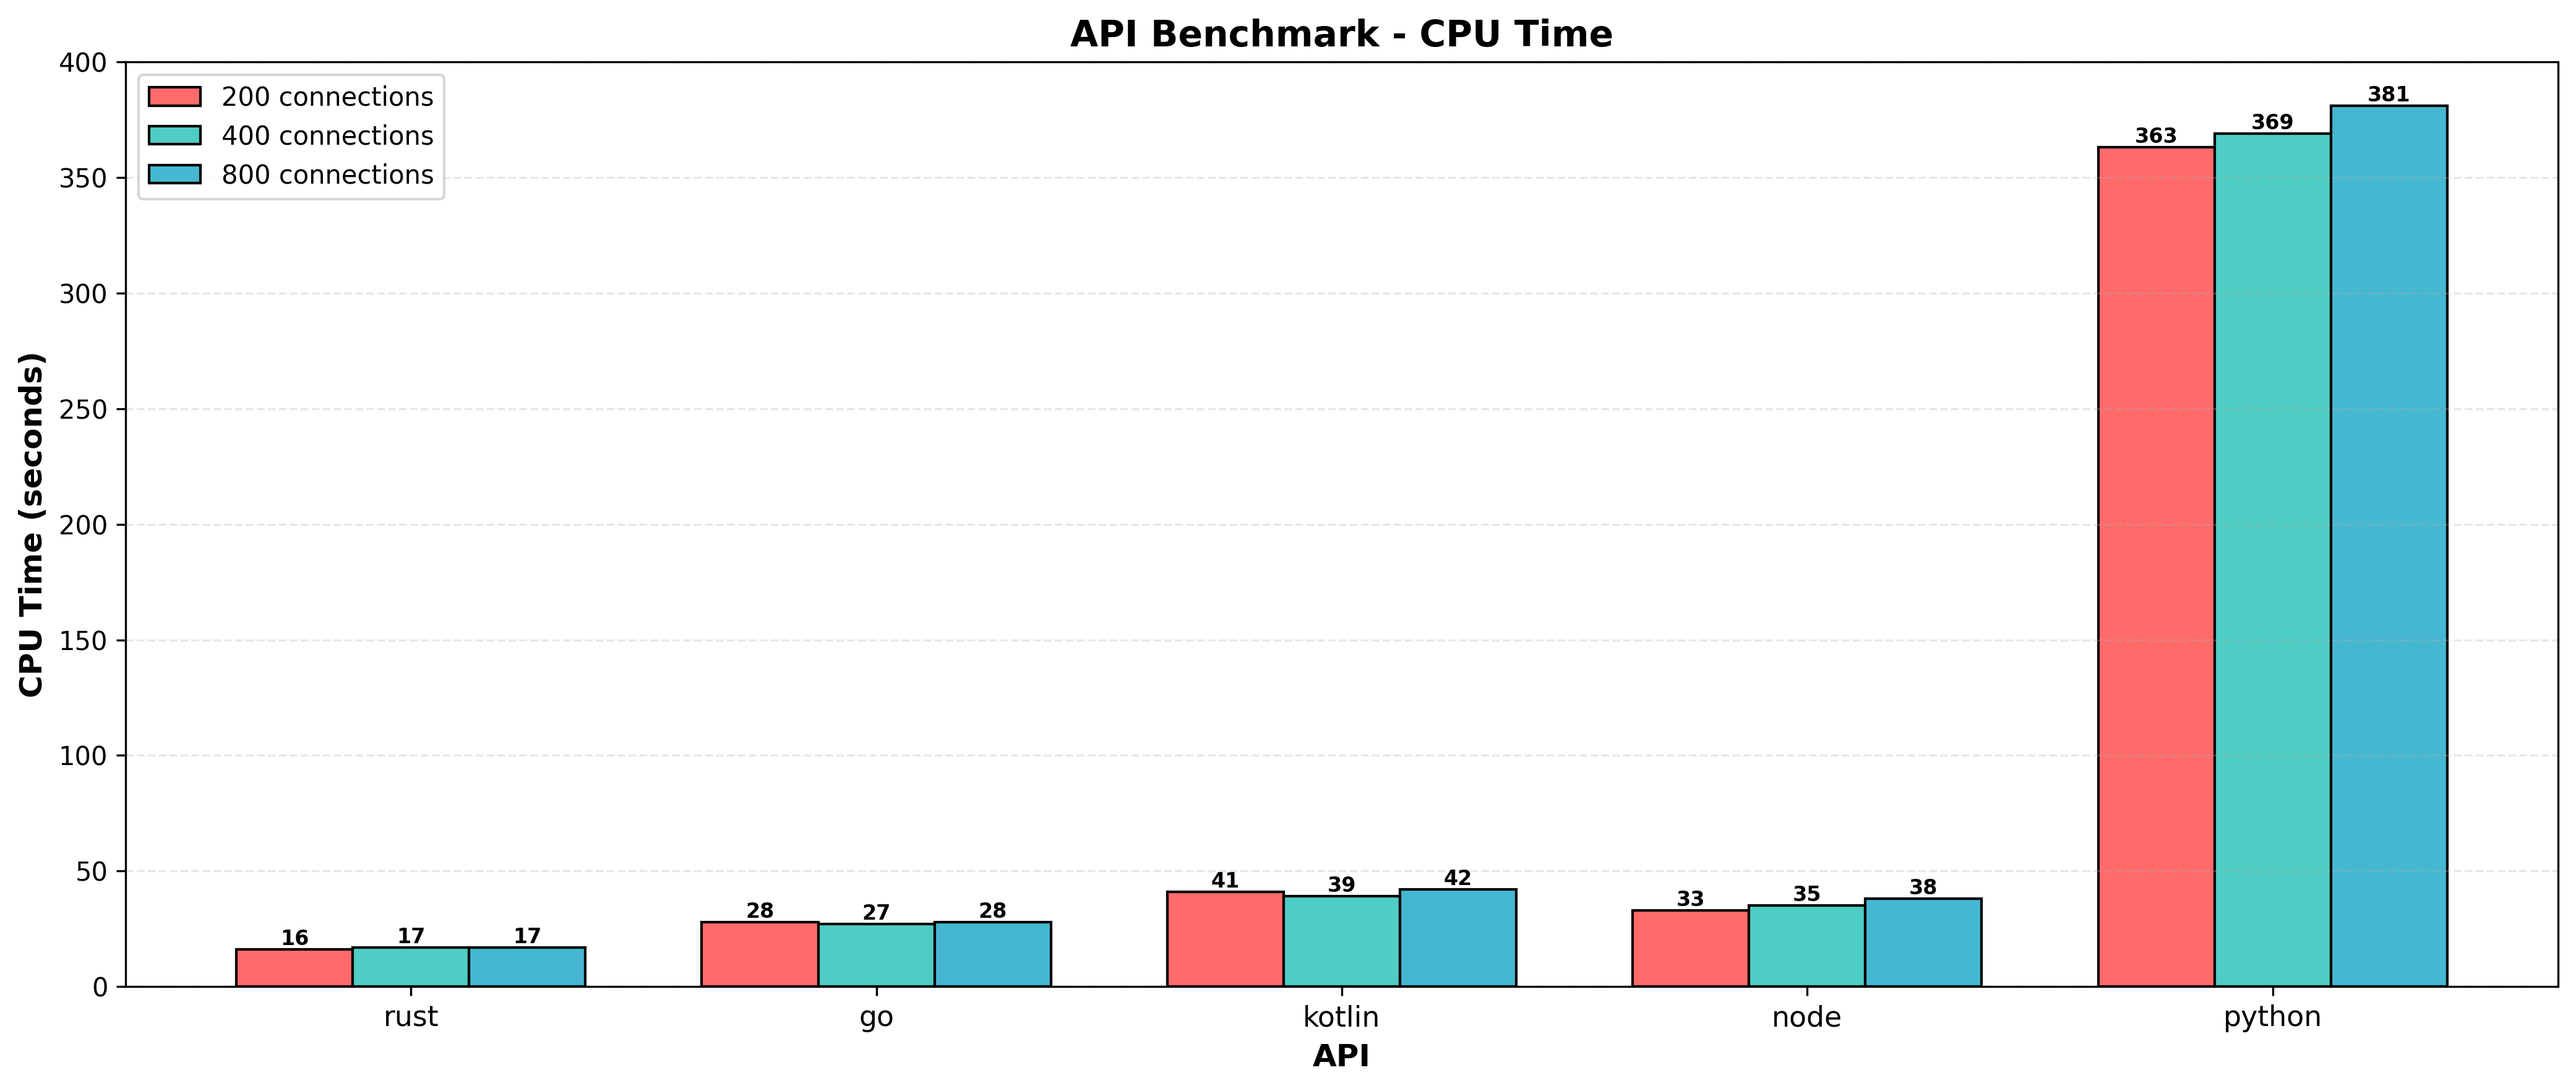
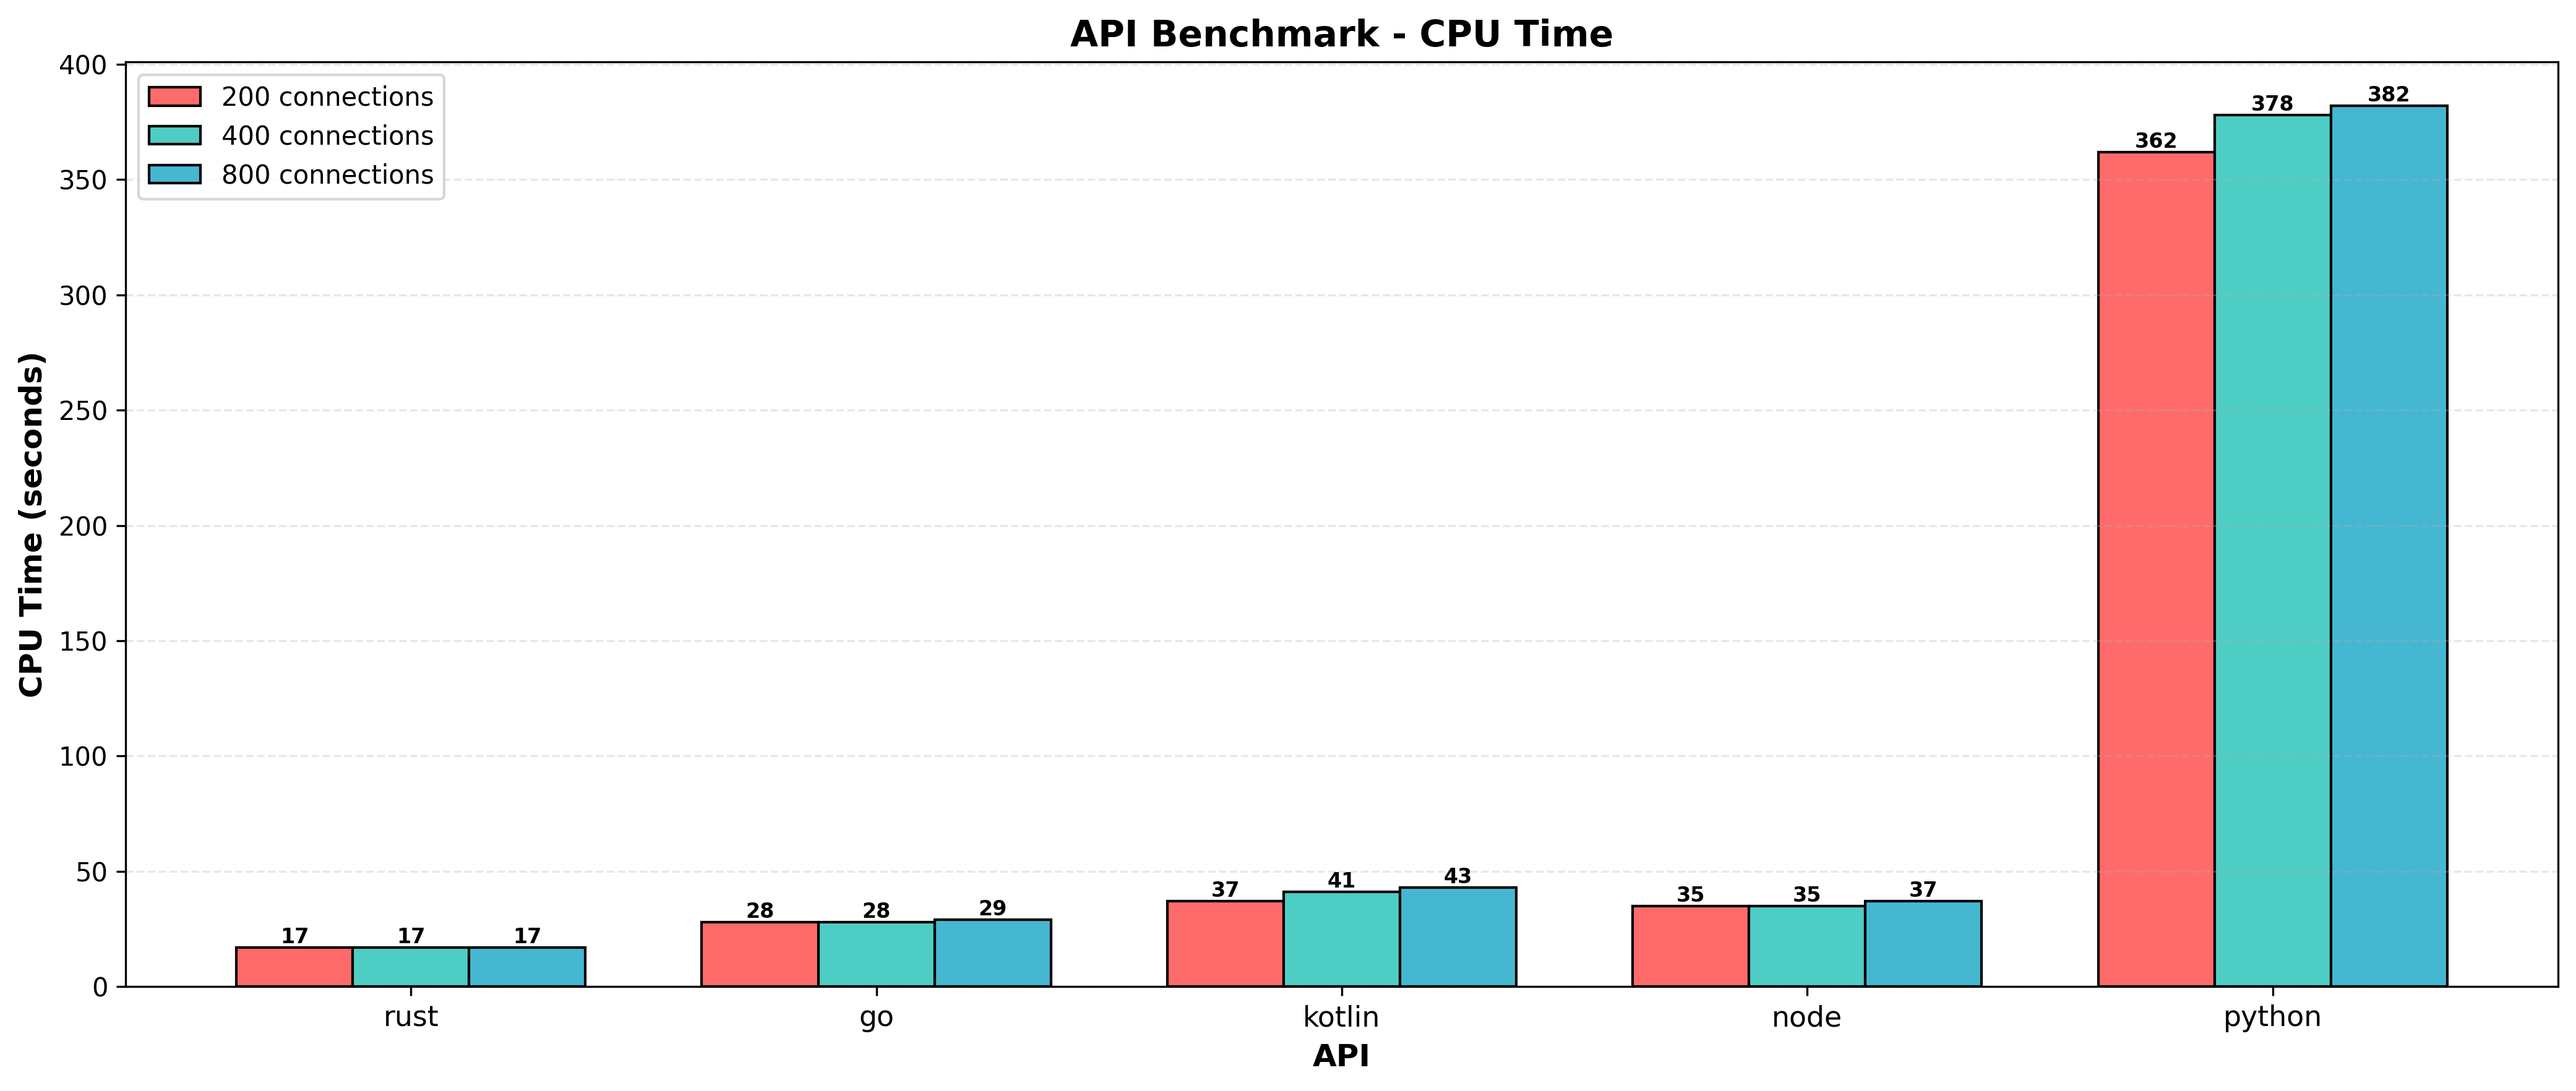
results from github actions autocommit

diff --git a/results/raw.md b/results/raw.md
@@ -1,6 +1,6 @@
 # Results
 ## Timestamp
-Mon Feb 2 11:11:29 UTC 2026
+Tue Feb 3 11:10:22 UTC 2026
 ## Hardware Info
 | CPU Model | Num CPUs | Memory |
 | --------- | -------- | ------ |
@@ -9,18 +9,18 @@ Mon Feb 2 11:11:29 UTC 2026
 ## Benchmarks of 1 Million Requests
 | Test Name | HTTP Conns | Success Rate | Test Seconds | Requests per Second | P50 Millis | P99 Millis | P99.9 Millis | API Memory MB | API CPU Time | API Threads | API Processes |
 | --------- | ---------- | ------------ | ------------ | ------------------- | ---------- | ---------- | ------------ | ------------- | ------------ | ----------- | ------------- |
-| rust | 200 | 100.0% | 8.8 | 113181.4 | 1.6181 | 4.5569 | 5.9086 | 8.4 | 00:00:16 | 5 | 1 |
-| rust | 400 | 100.0% | 8.6 | 115331.8 | 3.2661 | 7.0350 | 9.5700 | 12.9 | 00:00:17 | 5 | 1 |
-| rust | 800 | 100.0% | 8.8 | 113704.3 | 6.9152 | 11.0159 | 17.9533 | 21.9 | 00:00:17 | 5 | 1 |
-| go | 200 | 100.0% | 11.8 | 84169.3 | 1.8574 | 7.4801 | 10.1988 | 17.8 | 00:00:28 | 11 | 1 |
-| go | 400 | 100.0% | 11.5 | 86600.0 | 3.9146 | 13.7683 | 20.1485 | 24.7 | 00:00:27 | 11 | 1 |
-| go | 800 | 100.0% | 11.7 | 84915.9 | 8.4220 | 25.6699 | 39.0715 | 37.2 | 00:00:28 | 13 | 1 |
-| kotlin | 200 | 100.0% | 14.8 | 67405.1 | 2.0232 | 13.1550 | 28.2723 | 527.1 | 00:00:41 | 30 | 1 |
-| kotlin | 400 | 100.0% | 14.4 | 69118.1 | 4.6593 | 23.9613 | 61.5063 | 520.0 | 00:00:39 | 30 | 1 |
-| kotlin | 800 | 100.0% | 15.4 | 64897.1 | 9.9655 | 46.2821 | 117.6858 | 520.0 | 00:00:42 | 30 | 1 |
-| node | 200 | 100.0% | 32.9 | 30335.8 | 5.7915 | 9.2137 | 11.2912 | 106.2 | 00:00:33 | 7 | 1 |
-| node | 400 | 100.0% | 34.7 | 28800.2 | 12.1016 | 19.2118 | 24.3998 | 142.3 | 00:00:35 | 7 | 1 |
-| node | 800 | 100.0% | 37.7 | 26495.1 | 26.1723 | 41.1017 | 44.9015 | 150.4 | 00:00:38 | 7 | 1 |
-| python | 200 | 100.0% | 100.7 | 10058.6 | 20.0719 | 34.4051 | 38.4245 | 134.0 | 00:06:03 | 5 | 5 |
-| python | 400 | 100.0% | 102.5 | 9764.6 | 43.6310 | 61.9179 | 67.5240 | 135.1 | 00:06:09 | 5 | 5 |
-| python | 800 | 100.0% | 105.2 | 9514.9 | 70.7399 | 153.9014 | 173.9924 | 142.4 | 00:06:21 | 5 | 5 |
+| rust | 200 | 100.0% | 8.9 | 111914.9 | 1.6461 | 4.5413 | 6.1194 | 8.5 | 00:00:17 | 5 | 1 |
+| rust | 400 | 100.0% | 8.6 | 115361.4 | 3.2892 | 7.3731 | 10.0923 | 12.9 | 00:00:17 | 5 | 1 |
+| rust | 800 | 100.0% | 9.0 | 111426.1 | 7.0466 | 11.8859 | 17.6703 | 22.1 | 00:00:17 | 5 | 1 |
+| go | 200 | 100.0% | 12.0 | 82735.6 | 1.8993 | 7.6068 | 10.5157 | 17.8 | 00:00:28 | 11 | 1 |
+| go | 400 | 100.0% | 11.7 | 85314.1 | 3.9725 | 14.0525 | 19.4051 | 24.6 | 00:00:28 | 12 | 1 |
+| go | 800 | 100.0% | 12.2 | 82036.7 | 8.7896 | 26.3642 | 39.4729 | 37.3 | 00:00:29 | 10 | 1 |
+| kotlin | 200 | 100.0% | 14.0 | 71501.2 | 1.9644 | 10.9486 | 31.8516 | 508.6 | 00:00:37 | 30 | 1 |
+| kotlin | 400 | 100.0% | 15.0 | 66375.9 | 4.9859 | 23.0876 | 54.1212 | 529.7 | 00:00:41 | 30 | 1 |
+| kotlin | 800 | 100.0% | 15.7 | 63547.1 | 10.2465 | 46.6662 | 104.3577 | 621.6 | 00:00:43 | 31 | 1 |
+| node | 200 | 100.0% | 34.7 | 28790.5 | 5.8747 | 10.7247 | 11.6091 | 105.7 | 00:00:35 | 7 | 1 |
+| node | 400 | 100.0% | 35.3 | 28323.7 | 12.4037 | 19.9113 | 26.1844 | 142.7 | 00:00:35 | 7 | 1 |
+| node | 800 | 100.0% | 37.5 | 26679.8 | 25.8352 | 42.3168 | 49.4441 | 148.9 | 00:00:37 | 7 | 1 |
+| python | 200 | 100.0% | 100.7 | 10088.6 | 19.2875 | 31.7408 | 35.8602 | 134.1 | 00:06:02 | 5 | 5 |
+| python | 400 | 100.0% | 105.2 | 9470.6 | 43.3416 | 68.5561 | 71.8065 | 135.1 | 00:06:18 | 5 | 5 |
+| python | 800 | 100.0% | 105.8 | 9429.0 | 73.8858 | 155.7374 | 167.7436 | 143.8 | 00:06:22 | 5 | 5 |

diff --git a/results/latest.md b/results/latest.md
@@ -1,6 +1,6 @@
 # Latest Results
 
-Timestamp: `Mon Feb 2 11:11:29 UTC 2026`
+Timestamp: `Tue Feb 3 11:10:22 UTC 2026`
 
 ## Requests Per Second
 ![Requests Per Second](rps.png)
